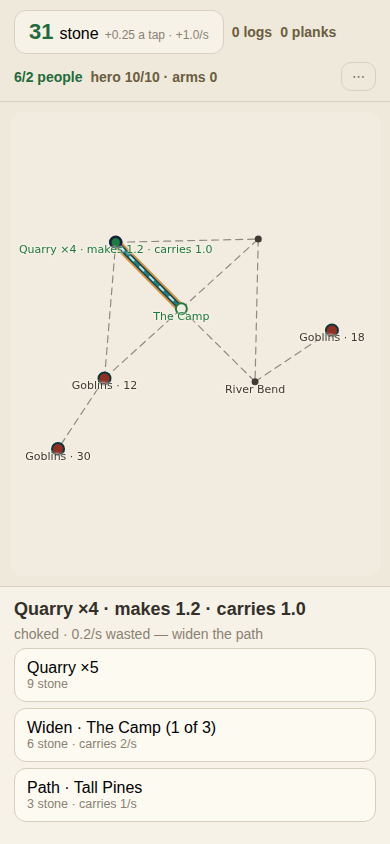
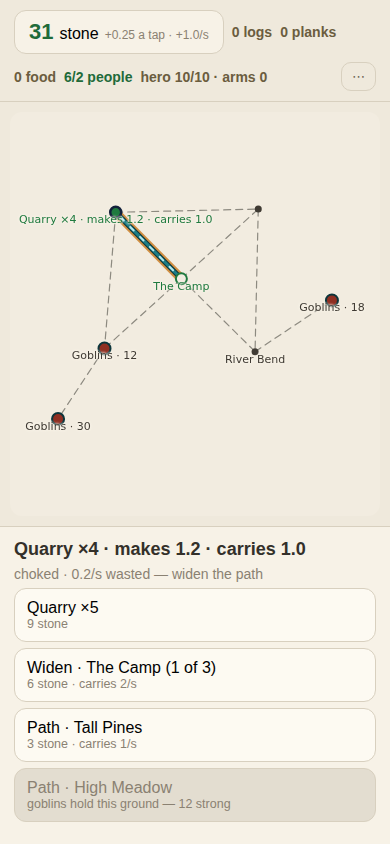
SLICE 3: the meadow farms, the town eats, and liberations free captives
"go go" — farms, food and the Noobtown captives, in one slice:

- HIGH MEADOW (the held-12 ground, was Old Growth) is FARM land: the
  town's first fight is now also its food unlock. Farms make 0.25/s a
  copy, carried down paths like everything else — chokes apply.
- THE WILD FEEDS SIX free; every settler past that eats 0.1/s from the
  larder. Hunger is priced on the header (-0.3/s at nine mouths).
- STARVING (empty larder, fields behind the hunger) halts every works
  EXCEPT the farms - so a famine always recovers, never spirals. The
  header says STARVING in red; the quarries stand down on screen.
- Settlers refuse a bare larder: growth past six wants bread banked.
  CAPTIVES do not ask - every liberation frees two, instantly, hungry
  (verified Noobtown spine: rescued people ARE the town).
- Bug the tests caught: hand-typed adjacency was one-way (the camp never
  listed the meadow back, so the component walk never saw a 0-4 path).
  Neighbouring is symmetrized at init now - the old map's exact fix.
- Save v4; v3 refused to a fresh start. Saves reset, said plainly.

EVIDENCE, run and read:
- vitest 707 green (campbuilder 30: farm flow, hunger past the wild's
  table, larder banking, the starving halt-and-recover pair, growth
  refusing a bare larder, captives on liberation)
- npm run play exit 0: the freed meadow reads "High Meadow", the header
  jumps to 6 people on liberation (two captives), "Farm x1 - 0.3/s" the
[…]

diff --git a/src/camp/engine.ts b/src/camp/engine.ts
@@ -18,7 +18,7 @@
 // road game survives untouched in src/game/; nothing here imports it.
 
 /** What can stand on a site, in numbers. Huts live only at the camp. */
-export type Kind = 'hut' | 'quarry' | 'lumber' | 'sawmill';
+export type Kind = 'hut' | 'quarry' | 'lumber' | 'sawmill' | 'farm';
 
 export interface Site {
   id: number;
@@ -39,7 +39,7 @@ export const SITES: readonly Site[] = [
   { id: 1, name: 'Rock Face', x: 118, y: 122, allows: 'quarry', near: [0, 2] },
   { id: 2, name: 'Tall Pines', x: 296, y: 118, allows: 'lumber', near: [0, 1, 3] },
   { id: 3, name: 'River Bend', x: 292, y: 296, allows: 'sawmill', near: [0, 2, 5] },
-  { id: 4, name: 'Old Growth', x: 104, y: 292, allows: 'lumber', near: [0, 1, 6] },
+  { id: 4, name: 'High Meadow', x: 104, y: 292, allows: 'farm', near: [0, 1, 6] },
   { id: 5, name: 'Scree Slope', x: 388, y: 232, allows: 'quarry', near: [3] },
   { id: 6, name: 'Goblin Knoll', x: 46, y: 380, allows: 'quarry', near: [4] },
 ];
@@ -55,6 +55,17 @@ export const GOBLINS: Record<number, { strength: number; bite: number }> = {
 };
 export const SITE = new Map(SITES.map((s) => [s.id, s]));
 
+// ★ NEIGHBOURING IS SYMMETRIC, enforced here so a hand-typed list can
+// never make a one-way path — the exact bug the old map fixed the same
+// way. (Site 4 listed the camp; the camp did not list site 4 back, and
+// the component walk from the camp never saw the meadow.)
+for (const s of SITES) {
+  for (const n of s.near) {
+    const t = SITE.get(n);
+    if (t && !t.near.includes(s.id)) t.near.push(s.id);
+  }
+}
+
 export const pathKey = (a: number, b: number): string =>
   a < b ? `${a}|${b}` : `${b}|${a}`;
 
@@ -67,6 +78,9 @@ export interface City {
   stone: number;
   logs: number;
   planks: number;
+  /** ★ FOOD — the wild feeds the first few; every settler past that eats
+   *  from the stock, and an empty larder HALTS every works but the farms. */
+  food: number;
   /** People. Grown, not bought — toward the huts' cap, slowly. */
   pop: number;
   /** Fractional growth toward the next person. Never shown. */
@@ -79,7 +93,7 @@ export interface City {
   fight: { site: number } | null;
 }
 
-export const CITY_VERSION = 3;
+export const CITY_VERSION = 4;
 
 export const initial = (): City => ({
   version: CITY_VERSION,
@@ -88,6 +102,7 @@ export const initial = (): City => ({
   stone: 0,
   logs: 0,
   planks: 0,
+  food: 0,
   // ★ Two people came with you. Zero people would be zero rates forever.
   pop: 2,
   popPart: 0,
@@ -113,7 +128,18 @@ export const armsCost = (have: number): { stone: number; planks: number } => ({
 export const TAP_STONE = 0.25;
 
 /** Base output per copy per second, fully staffed. */
-export const RATE = { quarry: 0.3, lumber: 0.4, sawmill: 0.5 } as const;
+export const RATE = { quarry: 0.3, lumber: 0.4, sawmill: 0.5, farm: 0.25 } as const;
+
+/** ★ The wild feeds this many for free — a town of six needs no fields.
+ *  The seventh settler eats, and so does every rescued captive. */
+export const WILD_FED = 6;
+/** What one person past the wild's table eats, per second. */
+export const EAT = 0.1;
+/** What the town is eating right now, per second. */
+export const hunger = (g: City): number => Math.max(0, g.pop - WILD_FED) * EAT;
+/** ★ Freed ground frees PEOPLE — Noobtown's actual spine: two captives
+ *  walk home from every liberation, hungry and ready to work. */
+export const CAPTIVES = 2;
 
 /** What one path-gauge carries, per second, of everything put together. */
 export const CARRY = 1.0;
@@ -125,7 +151,7 @@ export const HUT_ROOM = 2;
 export const GROW_SECS = 12;
 
 /** First copy's price. Huts price in PLANKS — the sink the mill feeds. */
-export const BASE: Record<Kind, number> = { hut: 6, quarry: 5, lumber: 10, sawmill: 18 };
+export const BASE: Record<Kind, number> = { hut: 6, quarry: 5, lumber: 10, sawmill: 18, farm: 12 };
 export const PATH_COST = 3;
 
 /** ★ THE CURVE: the n-th copy (0-based count today) costs base × 1.15^n,
@@ -181,6 +207,10 @@ export interface Flow {
   stone: number;
   logs: number;
   planks: number;
+  food: number;
+  /** ★ An empty larder with unmet hunger: every works but the farms
+   *  stands down until there is bread again. */
+  starving: boolean;
   /** Per site: what its works make, and what its paths actually carry. */
   made: Map<number, number>;
   carried: Map<number, number>;
@@ -211,11 +241,23 @@ export function flow(g: City): Flow {
     if (id === 0 || n <= 0) continue;
     jobs += n;
     const base = s.allows === 'quarry' ? RATE.quarry
-      : s.allows === 'lumber' ? RATE.lumber : RATE.sawmill;
+      : s.allows === 'lumber' ? RATE.lumber
+      : s.allows === 'farm' ? RATE.farm : RATE.sawmill;
     made.set(id, n * base);
   }
   const staff = jobs > 0 ? Math.min(1, g.pop / jobs) : 1;
-  for (const [id, m] of made) made.set(id, m * staff);
+  // ★ STARVING: the larder is empty and the fields alone cannot keep up.
+  // Everyone but the farmers stands down — and BECAUSE the farms keep
+  // their hands, a famine is always recoverable, never a spiral.
+  let farmRaw = 0;
+  for (const [id, m] of made) {
+    if (SITE.get(id)!.allows === 'farm') farmRaw += m * staff;
+  }
+  const starving = g.food <= 0.001 && hunger(g) > farmRaw + 1e-9;
+  for (const [id, m] of made) {
+    const isFarm = SITE.get(id)!.allows === 'farm';
+    made.set(id, m * staff * (starving && !isFarm ? 0 : 1));
+  }
 
   // Load every edge with the producers routed over it, then scale each
   // producer by its worst edge. One pass — a choke wastes, it does not
@@ -250,13 +292,16 @@ export function flow(g: City): Flow {
   let stone = 0;
   let logsIn = 0;
   let mill = 0;
+  let food = 0;
   for (const [id, c] of carried) {
     const k = SITE.get(id)!.allows;
     if (k === 'quarry') stone += c;
     else if (k === 'lumber') logsIn += c;
+    else if (k === 'farm') food += c;
     else if (k === 'sawmill') mill += c;
   }
-  return { stone, logs: logsIn, planks: mill, made, carried, choked, staff, comp };
+  return { stone, logs: logsIn, planks: mill, food, starving, made, carried,
+    choked, staff, comp };
 }
 
 /** Why the next copy cannot be raised here, in plain words, or null. */
@@ -328,10 +373,13 @@ export function apply(g: City, a: Action): City {
       // tick, so an away-tick cannot saw planks from a pile that ran dry.
       const cut = g.logs + f.logs * s;
       const sawn = Math.min(f.planks * s, cut);
-      // People grow toward the huts' room, one at a time.
+      // People grow toward the huts' room, one at a time — and only where
+      // there is bread: past the wild's table, settlers want a stocked
+      // larder before they move in. Captives are the exception (fights).
       let pop = g.pop;
       let popPart = g.popPart;
-      if (pop < popCap(g)) {
+      const fed = pop < WILD_FED || g.food > 1;
+      if (pop < popCap(g) && fed) {
         popPart += s / GROW_SECS;
         const grown = Math.floor(popPart);
         pop = Math.min(popCap(g), pop + grown);
@@ -353,6 +401,7 @@ export function apply(g: City, a: Action): City {
         stone: g.stone + f.stone * s,
         logs: cut - sawn,
         planks: g.planks + sawn,
+        food: Math.max(0, g.food + (f.food - hunger(g)) * s),
         pop,
         popPart,
         hero,
@@ -397,10 +446,11 @@ export function apply(g: City, a: Action): City {
       const site = g.fight.site;
       const left = (g.goblins[site] ?? 0) - heroHit(g);
       if (left <= 0) {
-        // ★ LIBERATED: the ground joins the town's map, hurt and all.
+        // ★ LIBERATED: the ground joins the town, hurt and all — and two
+        // captives walk home with the hero, hungry and ready to work.
         const goblins = { ...g.goblins };
         delete goblins[site];
-        return { ...g, goblins, fight: null };
+        return { ...g, goblins, fight: null, pop: g.pop + CAPTIVES };
       }
       const hp = g.hero.hp - (GOBLINS[site]?.bite ?? 2);
       if (hp <= 0) {

diff --git a/test/campbuilder.test.ts b/test/campbuilder.test.ts
@@ -5,23 +5,25 @@
 // ---- PROVEN RED, 2026-08-08 (sabotage log in the commit message) -----------
 import { describe, it, expect } from 'vitest';
 import { apply, initial, flow, shown, popCap, pathKey, costOf, pathCostOf,
-  unlayable, unraisable, unassailable, component, heroHit, armsCost,
+  unlayable, unraisable, unassailable, component, heroHit, armsCost, hunger,
   TAP_STONE, RATE, BASE, HUT_ROOM, GROW_SECS, CARRY, SITES, GOBLINS,
-  HERO_HP, HEAL_SECS, type City } from '../src/camp/engine';
+  HERO_HP, HEAL_SECS, WILD_FED, EAT, CAPTIVES, type City } from '../src/camp/engine';
 import { honour } from '../src/camp/store';
 
 const tick = (g: City, secs: number): City => apply(g, { type: 'tick', secs });
 
 /** A quarry chain: n copies at the rock face, pathed at the given gauge. */
+// Fixtures carry a stocked larder: 99 people un-fed would be a famine,
+// and these blocks are about rules 1-3, not rule starving.
 const quarried = (n: number, gauge = 1, pop = 99): City => ({
-  ...initial(), pop,
+  ...initial(), pop, food: 999,
   stacks: { 1: n },
   paths: { [pathKey(0, 1)]: gauge },
 });
 
 /** The full working chain, staffed rich. */
 const chain = (pop = 99): City => ({
-  ...initial(), pop,
+  ...initial(), pop, food: 999,
   stacks: { 1: 1, 2: 1, 3: 1 },
   paths: { [pathKey(0, 1)]: 1, [pathKey(0, 2)]: 1, [pathKey(0, 3)]: 1 },
 });
@@ -114,7 +116,7 @@ describe('★★ RULE 3 — the path is the throughput, and past it is WASTE', (
     // Quarry at the rock face routes 1—2—0 with the pines' lumber: both
     // over one gauge-1 edge 0|2, together 0.7/s — fine. Nine quarries are
     // not fine, and both producers feel it.
-    const g: City = { ...initial(), pop: 99,
+    const g: City = { ...initial(), pop: 99, food: 999,
       stacks: { 1: 9, 2: 1 },
       paths: { [pathKey(1, 2)]: 3, [pathKey(0, 2)]: 1 } };
     const f = flow(g);
@@ -132,7 +134,7 @@ describe('★★ RULE 3 — the path is the throughput, and past it is WASTE', (
 describe('★★ RULE 4 — the cascade: logs to planks to huts to people', () => {
   it('the mill saws what arrives, the pile never goes phantom', () => {
     // One log banked, no cutters: an hour saws exactly one log.
-    const g: City = { ...initial(), pop: 99, logs: 1,
+    const g: City = { ...initial(), pop: 99, food: 9999, logs: 1,
       stacks: { 3: 1 }, paths: { [pathKey(0, 3)]: 1 } };
     const out = tick(g, 3600);
     expect(out.logs).toBe(0);
@@ -166,12 +168,57 @@ describe('★ honest refusals and the save', () => {
     expect(back).not.toBeNull();
     expect(back!.game).toEqual(g);
     expect(honour(null)).toBeNull();
-    expect(honour({ game: { version: 2 }, savedAt: 1 })).toBeNull();
+    expect(honour({ game: { version: 3 }, savedAt: 1 })).toBeNull();
     expect(honour({ game: { ...initial(), pop: -1 }, savedAt: 1 })).toBeNull();
     expect(honour({ game: { ...initial(), hero: { hp: -1, arms: 0, part: 0 } },
       savedAt: 1 })).toBeNull();
     expect(honour({ game: { ...initial(), goblins: { 4: Infinity } },
       savedAt: 1 })).toBeNull();
+  });
+});
+
+describe('★★ SLICE 3 — food: the wild feeds six, the fields feed the town', () => {
+  /** A freed meadow, farmed and pathed. */
+  const farmed = (copies: number, pop: number, food = 999): City => ({
+    ...initial(), pop, food,
+    goblins: { 5: 18, 6: 30 },
+    stacks: { 4: copies },
+    paths: { [pathKey(0, 4)]: 1 },
+  });
+
+  it('a farm makes food, carried like everything else', () => {
+    expect(flow(farmed(2, 99)).food).toBeCloseTo(2 * RATE.farm, 9);
+  });
+
+  it('★ hunger starts past the wild\'s table', () => {
+    expect(hunger({ ...initial(), pop: WILD_FED })).toBe(0);
+    expect(hunger({ ...initial(), pop: WILD_FED + 3 })).toBeCloseTo(3 * EAT, 9);
+  });
+
+  it('★ the larder banks the surplus and pays the hunger', () => {
+    // 2 farms 0.5/s in, 8 people eat 0.2/s: +0.3/s net.
+    const g = tick(farmed(2, 8, 0), 10);
+    expect(g.food).toBeCloseTo(3, 6);
+  });
+
+  it('★★ STARVING halts every works but the farms — and so it recovers', () => {
+    // 9 eat 0.3/s, one farm makes 0.25/s, larder empty: starving.
+    const g: City = { ...farmed(1, 9, 0), stacks: { 1: 2, 4: 1 },
+      paths: { [pathKey(0, 1)]: 1, [pathKey(0, 4)]: 1 } };
+    const f = flow(g);
+    expect(f.starving).toBe(true);
+    expect(f.stone).toBe(0);                          // the quarry stands down
+    expect(f.food).toBeCloseTo(RATE.farm, 9);         // the farm does not
+    // Bread in the larder ends it.
+    const fed = flow({ ...g, food: 5 });
+    expect(fed.starving).toBe(false);
+    expect(fed.stone).toBeGreaterThan(0);
+  });
+
+  it('★ settlers refuse a bare larder past the wild\'s table', () => {
+    const full: City = { ...initial(), stacks: { 0: 9 }, pop: WILD_FED, food: 0 };
+    expect(tick(full, 3600).pop).toBe(WILD_FED);       // no bread, no growth
+    expect(tick({ ...full, food: 50 }, GROW_SECS * 2 + 1).pop).toBe(WILD_FED + 2);
   });
 });
 
@@ -195,15 +242,18 @@ describe('★★ THE HERO AND THE GOBLINS — Mayor of Noobtown, by the numbers'
     expect(unassailable(g, 4)).toMatch(/^the hero heals — 0 of 10/);
     g = tick(g, HEAL_SECS * HERO_HP + 1);
     expect(g.hero.hp).toBe(HERO_HP);
+    const popBefore = g.pop;
     g = apply(g, { type: 'assail', id: 4 });
     g = strike(g);
-    // ★ LIBERATED: the goblins are gone and the ground takes works again.
+    // ★ LIBERATED: the goblins are gone, the ground takes works again, and
+    // two captives walked home with the hero.
     expect(g.goblins[4]).toBeUndefined();
     expect(g.fight).toBeNull();
+    expect(g.pop).toBe(popBefore + CAPTIVES);
     expect(unraisable({ ...g, stone: 99 }, 4)).toBeNull();
   });
 
-  it('★★ arms turn the same fight: ×1 beats Old Growth whole', () => {
+  it('★★ arms turn the same fight: ×1 beats the meadow whole', () => {
     let g: City = { ...initial(), hero: { hp: 10, arms: 1, part: 0 } };
     g = apply(g, { type: 'assail', id: 4 });
     for (let i = 0; i < 4 && g.fight; i++) g = strike(g);

diff --git a/src/ui/Camp.svelte b/src/ui/Camp.svelte
@@ -6,8 +6,8 @@
   import { INK, TOL } from '../game/ink';
   import type { Box } from '../game/layout';
   import { apply, initial, flow, shown, popCap, pathKey, costOf, pathCostOf,
-    unlayable, unraisable, unassailable, heroHit, armsCost, SITE, GOBLINS,
-    RATE, TAP_STONE, MAX_GAUGE, HERO_HP, type City } from '../camp/engine';
+    unlayable, unraisable, unassailable, heroHit, armsCost, hunger, SITE,
+    GOBLINS, RATE, TAP_STONE, MAX_GAUGE, HERO_HP, type City } from '../camp/engine';
   import { load, save, wipe, exportRaw, importRaw, elapsedSince } from '../camp/store';
 
   let game = $state<City>(initial());
@@ -28,7 +28,8 @@
 
   const siteId = (n: number): string => `site:${n}`;
   const numOf = (id: string): number => Number(id.split(':')[1]);
-  const KIND_NAME = { hut: 'Hut', quarry: 'Quarry', lumber: 'Lumberworks', sawmill: 'Sawmill' } as const;
+  const KIND_NAME = { hut: 'Hut', quarry: 'Quarry', lumber: 'Lumberworks',
+    sawmill: 'Sawmill', farm: 'Farm' } as const;
 
   /** A site's label: the count, and the truth about what its paths carry. */
   function nameOf(id: number): string {
@@ -235,6 +236,9 @@
     </button>
     <span class="keep">{Math.floor(game.logs)} logs</span>
     <span class="keep">{Math.floor(game.planks)} planks{planksNow > 0 ? ` +${planksNow.toFixed(1)}/s` : ''}</span>
+    <span class="keep" class:hurt={f.starving}>{Math.floor(game.food)} food{
+      f.starving ? ' · STARVING' : hunger(game) > 0 ? ` −${hunger(game).toFixed(1)}/s` : ''}{
+      f.food > 0 ? ` +${f.food.toFixed(1)}/s` : ''}</span>
     <span class="keep lv">{Math.floor(game.pop)}/{cap} people</span>
     <span class="keep">hero {game.hero.hp}/{HERO_HP} · arms {game.hero.arms}</span>
     <button class="reset gear" onclick={() => (menu = !menu)}>{menu ? 'Close' : '⋯'}</button>
@@ -298,6 +302,7 @@
   .spring em { font-style: normal; font-size: 12px; color: #8a8172; }
   .keep { font-size: 14px; color: #6b5d3f; font-weight: 600; }
   .keep.lv { color: #1f6b3a; }
+  .keep.hurt { color: #b3452f; }
   .reset { font: inherit; font-size: 13px; border: 1px solid #d8d0bf;
     border-radius: 10px; padding: 6px 10px; background: #efe9dc; color: #6b6353; }
   .reset.gear { margin-left: auto; }

diff --git a/src/camp/store.ts b/src/camp/store.ts
@@ -16,7 +16,7 @@ export function honour(b: Blob | null | undefined): { game: City; savedAt: numbe
   if (!g || typeof g !== 'object') return null;
   if (g.version !== CITY_VERSION) return null;
   if (!num(b.savedAt, 0, 8.64e15)) return null;
-  for (const k of ['stone', 'logs', 'planks', 'pop', 'popPart'] as const) {
+  for (const k of ['stone', 'logs', 'planks', 'food', 'pop', 'popPart'] as const) {
     if (g[k] !== undefined && !num(g[k], 0, 1e9)) return null;
   }
   if (g.stacks !== undefined && (typeof g.stacks !== 'object' || g.stacks === null)) return null;

diff --git a/docs/DECISIONS.md b/docs/DECISIONS.md
@@ -1834,3 +1834,4 @@ Entries above this line are long because the one-line rule did not exist yet.
 - 2026-08-08 — **CITY.md designed first (owner asked), then slice 2 shipped same session.** Owner: *"let's do the design please first… i want this to pivot more to civ building game… not civilization game literally… like incremental city builders and stuff."* One-page design, five rules; slice 2 = rules 1-3 playable: buildings in COUNTS on the 1.15^n curve; people as the even-staffing multiplier (huts cost PLANKS — the mill's sink; pop thresholds replace levels as the map ladder); paths as THROUGHPUT (gauge × 1/s of anything) with waste that is computed, named on the label ("makes 1.2 · carries 1.0"), said in the panel ("0.2/s wasted — widen the path") and DRAWN amber on the board. Proportional brownout on shared edges; single-commodity capacity is the on-record slice simplification. Save v2 (own key, v1 refused → fresh start). Farms/food = slice 3, per the doc.
 - 2026-08-08 — **THE HERO SLICE** (owner: *"very few people kind of game… low hundreds max… maybe we have a hero that's able to liberate some areas from goblins… let's steal some Mayor of Noobtown elements"*; battle form picked by chips: turn-based). Three grounds start GOBLIN-HELD (12/18/30 strong, drawn red with strength on the label); held ground takes no works and no paths. ONE hero: assail → deterministic turn fight (strike lands 2+arms, survivors bite back per-site 2/3/4; hp 10; at 0 the hero is beaten home and the ground KEEPS its wounds — a bled site stays bled). No dice ON PURPOSE: whether you can win was decided by the town that armed you — Arms ×n bought at the camp in stone+planks on a 1.25^n curve, the economy arming the fight loop exactly as CITY.md says. Healing 1hp/15s, never mid-fight. Liberated ground joins the buildable map — territory = fights won, replacing pop thresholds. Save v3 (v2 refused → reset, said plainly).
 - 2026-08-08 — **NO SHOULDER DEMON, ever.** Owner, verbatim: *"please no shoulder demon."* The Noobtown steals stay mechanical (goblin-held ground, hero liberation, captives-as-settlers pending); the companion-character bit is permanently off the table. Recorded so no future prose pass re-derives it.
+- 2026-08-08 — **SLICE 3: FOOD, FARMS, CAPTIVES** ("go go"). High Meadow (held 12) is now FARM ground — the first liberation is the food unlock. The wild feeds six free (WILD_FED); every settler past that eats 0.1/s from the larder. STARVING (empty larder, hunger past the fields) halts every works EXCEPT the farms — famines recover, never spiral — and settlers refuse to move in past the wild's table without bread banked. Liberations free 2 CAPTIVES who arrive instantly and hungry (Noobtown's actual spine, verified against the source). Bug found by the tests: hand-typed site adjacency was one-way (camp never listed the meadow back) — neighbouring is now symmetrized at module init, same fix the old map used. Save v4.

diff --git a/docs/NEXT.md b/docs/NEXT.md
@@ -1065,12 +1065,15 @@ profiles are wanted on happenings too.
 **Shipped since:** the hero slice — goblin-held ground (12/18/30), turn-based
 liberation fights, Arms ×n from the town's own stores, territory = fights won.
 
+**Shipped since:** slice 3 — the meadow farms, the wild feeds six, hunger is
+priced on the header, STARVING halts all but the farms, and every
+liberation frees two hungry captives.
+
 **Next, one per session, each after the owner plays:**
-1. SLICE 3 — farms & food: meadow sites (liberated ground wants a reason
-   to matter), people eat, starving halts staffing. First failure pressure.
-2. A second region BEYOND the knoll — deeper goblins, the map growing
+1. A second region BEYOND the knoll — deeper goblins, the map growing
    outward; maybe the hero levels (hp, not just arms).
-3. The away line + pacing pass (chad-liquidity across stone/planks/arms).
+2. The away line + pacing pass (chad-liquidity across stone/planks/arms/food).
+3. Storage caps? gold? the next Kittens rung — owner's pick.
 4. Naming/prose pass — the owner's, only when the loop proves out.
 
 ## ★★★★ (superseded same night) THE CAMP BUILDER — slice 1 of the pivot
